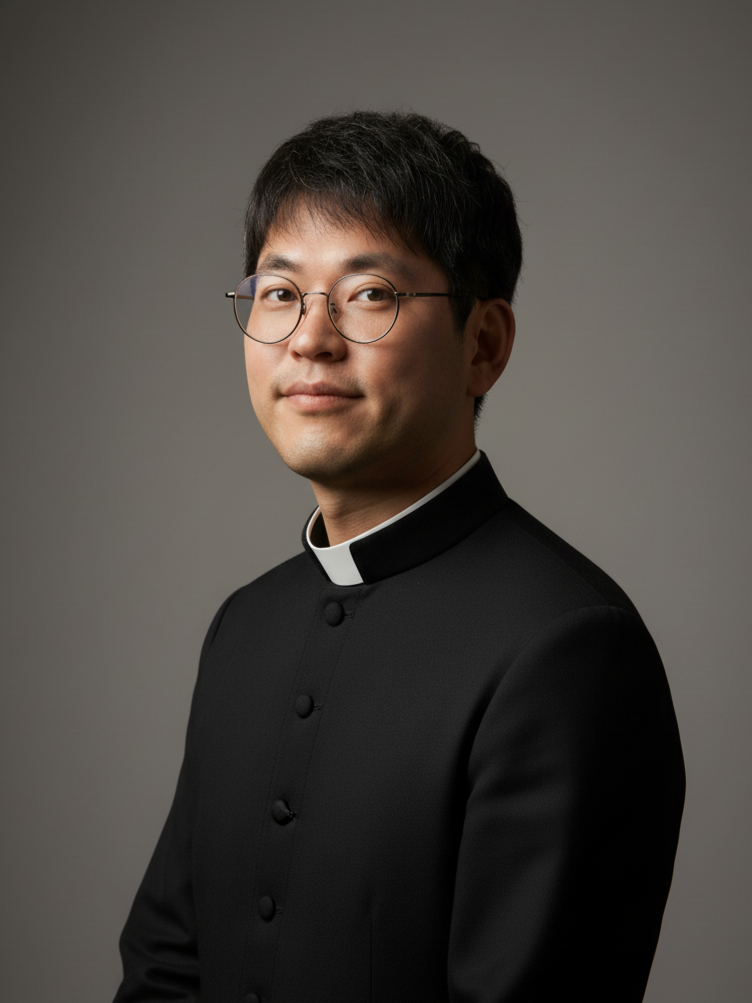
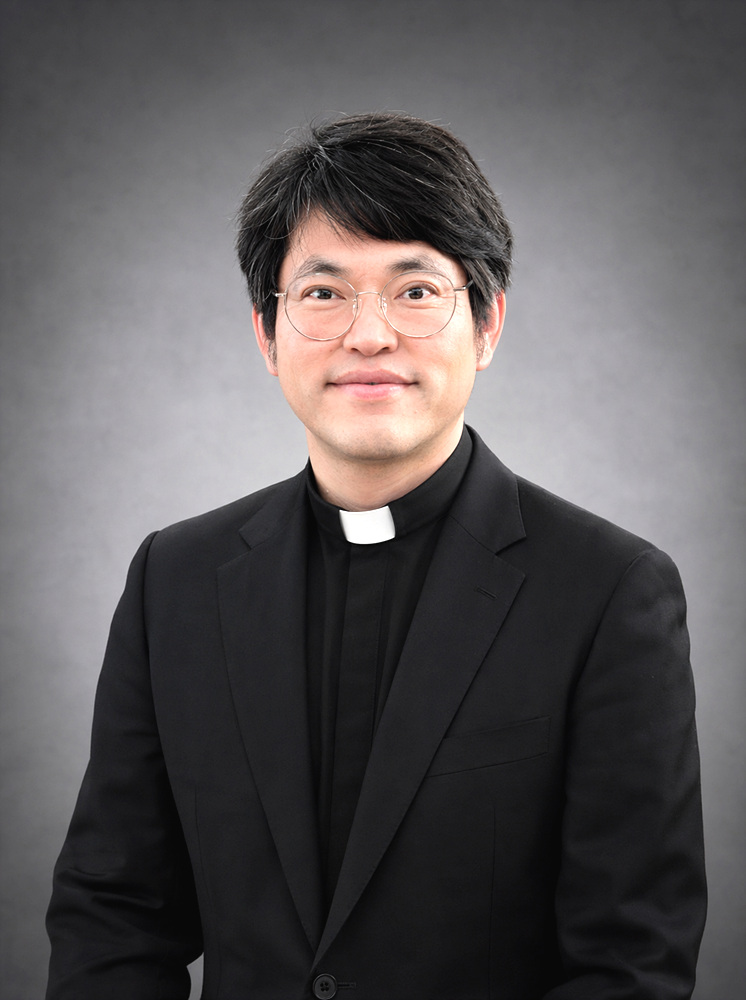
Add files via upload

diff --git a/index.html b/index.html
@@ -302,32 +302,60 @@ header{
   border:1px solid #b0a080;
 }
 .notice-chip strong{
-  display:block;color:#3a2c1a;font-size:.88rem;
+  display:block;color:#3a2c1a;font-size:1rem;
   font-weight:700;margin-bottom:4px;
 }
-.notice-chip span{color:rgba(58,44,26,.72);font-size:.84rem;line-height:1.7}
+.notice-chip span{color:rgba(58,44,26,.72);font-size:.95rem;line-height:1.7}
 
-/* quick grid */
+/* quick grid — modern redesign */
 .quick-section{padding:6px 0 0}
 .quick-grid{
   display:grid;grid-template-columns:repeat(4,1fr);
-  gap:10px;padding:14px 0 0;
+  gap:12px;padding:16px 0 0;
 }
 .quick-card{
-  background:var(--surface);border:1px solid var(--line);
-  border-radius:14px;padding:14px 16px;
-  box-shadow:var(--shadow);
-  transition:transform .18s,border-color .18s;
+  background:var(--surface);
+  border:1.5px solid var(--line);
+  border-radius:20px;
+  padding:20px 16px 32px;
+  box-shadow:0 2px 10px rgba(35,35,35,.05),0 1px 3px rgba(35,35,35,.03);
+  transition:transform .22s cubic-bezier(.34,1.4,.64,1),box-shadow .22s,border-color .22s,background .18s;
   cursor:pointer;
-  display:flex;align-items:center;gap:12px;
+  display:flex;flex-direction:column;
+  align-items:flex-start;gap:12px;
+  position:relative;overflow:hidden;
+  text-align:left;
 }
-.quick-card:hover{transform:translateY(-2px);border-color:var(--accent)}
+.quick-card::after{
+  content:'→';
+  position:absolute;bottom:14px;right:16px;
+  font-size:.82rem;color:var(--text-3);
+  font-weight:700;
+  transition:color .18s,transform .18s;
+}
+.quick-card:hover{
+  transform:translateY(-5px);
+  box-shadow:0 18px 36px rgba(35,35,35,.13),0 4px 8px rgba(35,35,35,.05);
+  border-color:var(--accent);
+  background:linear-gradient(160deg,#fff 70%,rgba(198,168,107,.06));
+}
+.quick-card:hover::after{
+  color:var(--accent-dk);
+  transform:translateX(4px);
+}
 .quick-icon{
-  width:38px;height:38px;border-radius:10px;
+  width:46px;height:46px;border-radius:14px;
   display:grid;place-items:center;flex-shrink:0;
-  background:var(--surface-2);color:var(--accent-dk);
+  background:linear-gradient(135deg,rgba(198,168,107,.16) 0%,rgba(198,168,107,.06) 100%);
+  color:var(--accent-dk);
+  border:1px solid rgba(198,168,107,.25);
+  transition:background .18s,transform .18s;
 }
-.quick-card h3{font-size:.88rem;font-weight:800;margin-bottom:0}
+.quick-card:hover .quick-icon{
+  background:linear-gradient(135deg,rgba(198,168,107,.28) 0%,rgba(198,168,107,.12) 100%);
+  transform:scale(1.05);
+}
+.quick-card h3{font-size:.97rem;font-weight:800;margin-bottom:0;color:var(--text);line-height:1.3}
 .quick-card p{display:none}
 
 /* news section on home */
@@ -606,6 +634,18 @@ header{
   white-space:pre-wrap;border-top:1px solid var(--surface-2);
   margin-top:8px;
 }
+/* 홈 히어로 공지사항 카드 고정 크기 */
+.hero-side .notice-board{
+  overflow:hidden;
+  max-height:300px;
+  flex:1;
+}
+#notice-hero-list{
+  overflow-y:auto;
+  max-height:240px;
+}
+#notice-hero-list::-webkit-scrollbar{width:3px}
+#notice-hero-list::-webkit-scrollbar-track{background:transparent}
 /* 메인 공지 인라인 펼침 */
 .notice-inline-body{
   display:none;
@@ -615,81 +655,6 @@ header{
   border-top:1px solid var(--surface-2);
   background:var(--surface-2);
 }
-
-/* ─── GALLERY ─── */
-.album-grid{
-  display:grid;grid-template-columns:repeat(auto-fill,minmax(220px,1fr));
-  gap:16px;
-}
-.album-card{
-  background:var(--surface);border:1px solid var(--line);
-  border-radius:var(--r);overflow:hidden;box-shadow:var(--shadow);
-  cursor:pointer;transition:transform .18s,border-color .18s;
-}
-.album-card:hover{transform:translateY(-3px);border-color:var(--accent)}
-.album-cover{
-  width:100%;aspect-ratio:4/3;object-fit:cover;display:block;
-  background:var(--surface-2);
-}
-.album-cover-ph{
-  width:100%;aspect-ratio:4/3;background:var(--surface-2);
-  display:flex;align-items:center;justify-content:center;
-  font-size:2rem;
-}
-.album-info{padding:14px 16px}
-.album-title{font-family:'Noto Serif KR',serif;font-weight:700;font-size:.97rem;margin-bottom:4px}
-.album-meta{font-size:.8rem;color:var(--text-3)}
-
-/* 라이트박스 */
-.lightbox{
-  display:none;position:fixed;inset:0;z-index:2000;
-  background:rgba(0,0,0,.92);
-  flex-direction:column;
-}
-.lightbox.open{display:flex}
-.lb-header{
-  display:flex;align-items:center;justify-content:space-between;
-  padding:16px 20px;flex-shrink:0;
-}
-.lb-title{font-family:'Noto Serif KR',serif;font-size:1rem;font-weight:700;color:#fff}
-.lb-close{
-  background:rgba(255,255,255,.1);border:none;cursor:pointer;
-  color:#fff;font-size:1.2rem;width:38px;height:38px;
-  border-radius:50%;display:grid;place-items:center;
-  transition:background .15s;
-}
-.lb-close:hover{background:rgba(255,255,255,.25)}
-.lb-body{flex:1;overflow-y:auto;padding:0 16px 24px}
-.lb-grid{
-  display:grid;grid-template-columns:repeat(auto-fill,minmax(160px,1fr));
-  gap:8px;
-}
-.lb-thumb{
-  width:100%;aspect-ratio:1;object-fit:cover;display:block;
-  border-radius:8px;cursor:zoom-in;
-  transition:opacity .15s,transform .15s;
-  background:rgba(255,255,255,.06);
-}
-.lb-thumb:hover{opacity:.85;transform:scale(1.02)}
-
-/* 전체화면 사진 뷰어 */
-.photo-viewer{
-  display:none;position:fixed;inset:0;z-index:3000;
-  background:rgba(0,0,0,.97);
-  align-items:center;justify-content:center;
-}
-.photo-viewer.open{display:flex}
-.photo-viewer img{
-  max-width:94vw;max-height:90vh;
-  object-fit:contain;border-radius:6px;
-}
-.pv-close{
-  position:absolute;top:16px;right:16px;
-  background:rgba(255,255,255,.1);border:none;cursor:pointer;
-  color:#fff;font-size:1.2rem;width:40px;height:40px;
-  border-radius:50%;display:grid;place-items:center;z-index:1;
-}
-.pv-close:hover{background:rgba(255,255,255,.25)}
 
 /* ─── FOOTER ─── */
 footer{
@@ -709,11 +674,13 @@ footer a:hover{color:var(--accent)}
 @media(max-width:760px){
   .header-inner{flex-direction:row;align-items:center;padding:0}
   .quick-grid{grid-template-columns:repeat(2,1fr)}
+  .quick-card{padding:18px 14px 30px}
   .news-grid{grid-template-columns:1fr 1fr}
   .hero-content{padding:22px 24px}
 }
 @media(max-width:520px){
   .quick-grid{grid-template-columns:repeat(2,1fr)}
+  .quick-card{padding:16px 12px 28px}
   .news-grid{grid-template-columns:1fr}
   .about-hero{flex-direction:column;gap:12px}
   .notice-board{min-width:0;overflow:hidden}
@@ -801,7 +768,7 @@ footer a:hover{color:var(--accent)}
 
       <!-- 오른쪽: 공지사항 게시판 -->
       <aside class="hero-side">
-        <div class="notice-board" style="flex:1">
+        <div class="notice-board">
           <div class="notice-board-head">
             <span style="display:flex;align-items:center;gap:7px">
               <svg viewBox="0 0 24 24" fill="none" stroke="currentColor" stroke-width="1.8" stroke-linecap="round" stroke-linejoin="round" width="16" height="16" style="color:var(--accent-dk)">
@@ -1098,7 +1065,7 @@ footer a:hover{color:var(--accent)}
         <div class="group-card">
           <div class="group-badge" style="font-size:.72rem">기도</div>
           <div class="group-body">
-            <h3>바뇨 성모 기도회</h3>
+            <h3>바뇌 성모 기도회</h3>
             <p>성모님께 대한 신심을 바탕으로 함께 기도하는 모임입니다.</p>
             <p class="ct">매월 1·3주 토요일 10:00</p>
           </div>
@@ -1209,6 +1176,10 @@ footer a:hover{color:var(--accent)}
               <span class="ci-val">6 Heath St., Hamilton, ON L8H 5Y5, Canada</span>
             </li>
             <li>
+              <span class="ci-label">공소 주소</span>
+              <span class="ci-val">나이아가라 공소 — 6028 Valley Way, Niagara Falls, ON L2E 1Y7, Canada</span>
+            </li>
+            <li>
               <span class="ci-label">전화</span>
               <span class="ci-val"><a href="tel:+19055453004">(905) 545-3004</a></span>
             </li>
@@ -1304,80 +1275,9 @@ footer a:hover{color:var(--accent)}
 
     </div>
   </div>
-<!-- ═══════════════════════════════════════
-     사진 갤러리
-════════════════════════════════════════ -->
-<section class="pg" id="pg-gallery">
-  <div class="pg-wrap">
-    <div class="container">
-      <div class="pg-header">
-        <div class="pg-eyebrow">Gallery</div>
-        <h1>사진 갤러리</h1>
-        <p>성 유대철 한인성당의 소중한 순간들을 담았습니다.</p>
-      </div>
-
-      <!-- 스켈레톤 -->
-      <div id="gallery-skel" class="album-grid">
-        <div class="album-card" style="pointer-events:none">
-          <div class="album-cover-ph"><div style="width:50%;height:12px;background:var(--line);border-radius:4px;animation:sk 1.5s ease-in-out infinite"></div></div>
-          <div class="album-info">
-            <div style="height:13px;width:70%;background:var(--surface-2);border-radius:4px;margin-bottom:8px;animation:sk 1.5s ease-in-out infinite"></div>
-            <div style="height:10px;width:45%;background:var(--surface-2);border-radius:4px;animation:sk 1.5s ease-in-out infinite .1s"></div>
-          </div>
-        </div>
-        <div class="album-card" style="pointer-events:none">
-          <div class="album-cover-ph"><div style="width:50%;height:12px;background:var(--line);border-radius:4px;animation:sk 1.5s ease-in-out infinite .1s"></div></div>
-          <div class="album-info">
-            <div style="height:13px;width:60%;background:var(--surface-2);border-radius:4px;margin-bottom:8px;animation:sk 1.5s ease-in-out infinite .1s"></div>
-            <div style="height:10px;width:40%;background:var(--surface-2);border-radius:4px;animation:sk 1.5s ease-in-out infinite .2s"></div>
-          </div>
-        </div>
-        <div class="album-card" style="pointer-events:none">
-          <div class="album-cover-ph"><div style="width:50%;height:12px;background:var(--line);border-radius:4px;animation:sk 1.5s ease-in-out infinite .2s"></div></div>
-          <div class="album-info">
-            <div style="height:13px;width:75%;background:var(--surface-2);border-radius:4px;margin-bottom:8px;animation:sk 1.5s ease-in-out infinite .2s"></div>
-            <div style="height:10px;width:50%;background:var(--surface-2);border-radius:4px;animation:sk 1.5s ease-in-out infinite .3s"></div>
-          </div>
-        </div>
-      </div>
-
-      <div id="gallery-list" class="album-grid" style="display:none"></div>
-
-      <div id="gallery-empty" style="display:none;padding:48px;text-align:center;
-        background:var(--surface);border:1px solid var(--line);border-radius:var(--r);
-        color:var(--text-3)">
-        <div style="font-size:2.5rem;margin-bottom:12px">📷</div>
-        <p style="font-size:.95rem">등록된 앨범이 없습니다.</p>
-      </div>
-
-      <div id="gallery-error" style="display:none;padding:48px;text-align:center;
-        background:var(--surface);border:1px solid var(--line);border-radius:var(--r);
-        color:var(--text-3)">
-        <div style="font-size:2.5rem;margin-bottom:12px">⚠️</div>
-        <p style="font-size:.95rem">갤러리를 불러오지 못했습니다.<br>잠시 후 다시 시도해 주세요.</p>
-      </div>
-    </div>
-  </div>
 </section>
 
 </main>
-
-<!-- 앨범 라이트박스 -->
-<div class="lightbox" id="lightbox">
-  <div class="lb-header">
-    <span class="lb-title" id="lb-title"></span>
-    <button class="lb-close" onclick="closeLightbox()">✕</button>
-  </div>
-  <div class="lb-body">
-    <div class="lb-grid" id="lb-grid"></div>
-  </div>
-</div>
-
-<!-- 전체화면 사진 뷰어 -->
-<div class="photo-viewer" id="photo-viewer" onclick="closePhotoViewer()">
-  <button class="pv-close" onclick="closePhotoViewer()">✕</button>
-  <img id="pv-img" src="" alt="">
-</div>
 
 <!-- ═══ FOOTER ═══ -->
 <footer>
@@ -1392,7 +1292,7 @@ footer a:hover{color:var(--accent)}
 <script data-cfasync="false" src="/cdn-cgi/scripts/5c5dd728/cloudflare-static/email-decode.min.js"></script>
 <script>
 // ── 탭 네비게이션 ──
-const PAGES = ['home','notice','mass','about','groups','contact','jubo','dailymass','gallery'];
+const PAGES = ['home','notice','mass','about','groups','contact','jubo','dailymass'];
 
 function go(id, pushHistory) {
   if (!PAGES.includes(id)) id = 'home';
@@ -1405,7 +1305,6 @@ function go(id, pushHistory) {
   window.scrollTo({ top: 0, behavior: 'smooth' });
   if (id === 'dailymass') loadDailyMass();
   if (id === 'notice')    loadNotice(true);
-  if (id === 'gallery')   loadGallery();
   // 6: 뒤로가기 처리 — 히스토리에 상태 추가
   if (pushHistory !== false) {
     history.pushState({ page: id }, '', '#' + id);